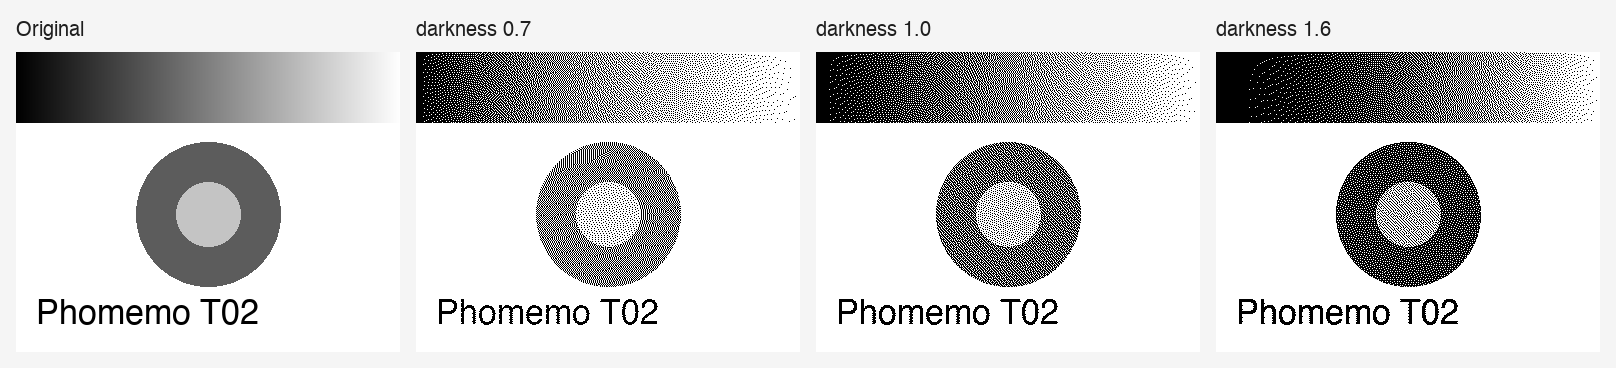
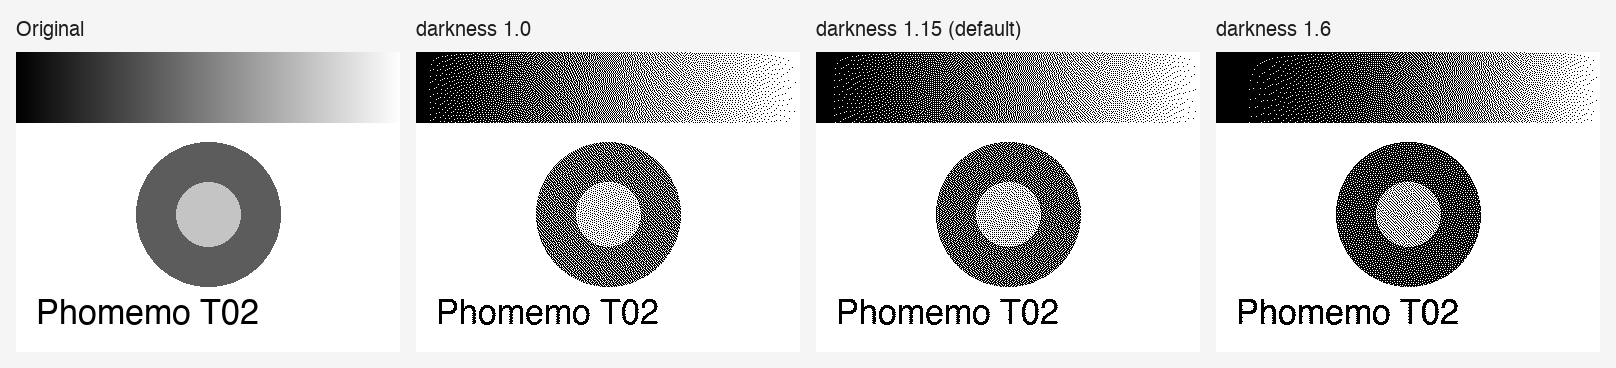
Default darkness 1.15

diff --git a/t02.py b/t02.py
@@ -15,7 +15,7 @@ STATUS = {  # notification -> meaning
 }
 
 
-def to_raster(img: Image.Image, darkness: float = 1.0, autocontrast: bool = False) -> bytes:
+def to_raster(img: Image.Image, darkness: float = 1.15, autocontrast: bool = False) -> bytes:
     """PIL image -> 384px wide 1-bit rows, MSB first, 1 = black.
 
     darkness > 1 prints darker, < 1 lighter (software gamma; the T02 density command is unknown).

diff --git a/README.md b/README.md
@@ -24,7 +24,7 @@ from t02 import T02
 
 async def main():
     async with T02() as printer:
-        ok = await printer.print_image(Image.open("photo.png"), darkness=1.3, autocontrast=True)
+        ok = await printer.print_image(Image.open("photo.png"), autocontrast=True)
         print("done" if ok else "no completion report", printer.status)
 
 asyncio.run(main())
@@ -38,7 +38,7 @@ The printer is 384 dots wide (203 DPI), one bit per dot. The SDK flattens transp
 
 | Option | Effect |
 | --- | --- |
-| `darkness` | Software gamma. Above 1 prints darker, below 1 lighter. Default 1.0. |
+| `darkness` | Software gamma. Above 1 prints darker, below 1 lighter. Default 1.15, which looked right on the tested T02 and paper. |
 | `autocontrast` | Stretches the tonal range first. Helps flat photos. |
 | `feed` | Paper feed after the job (`1B 64 n`), default 4. |
 
